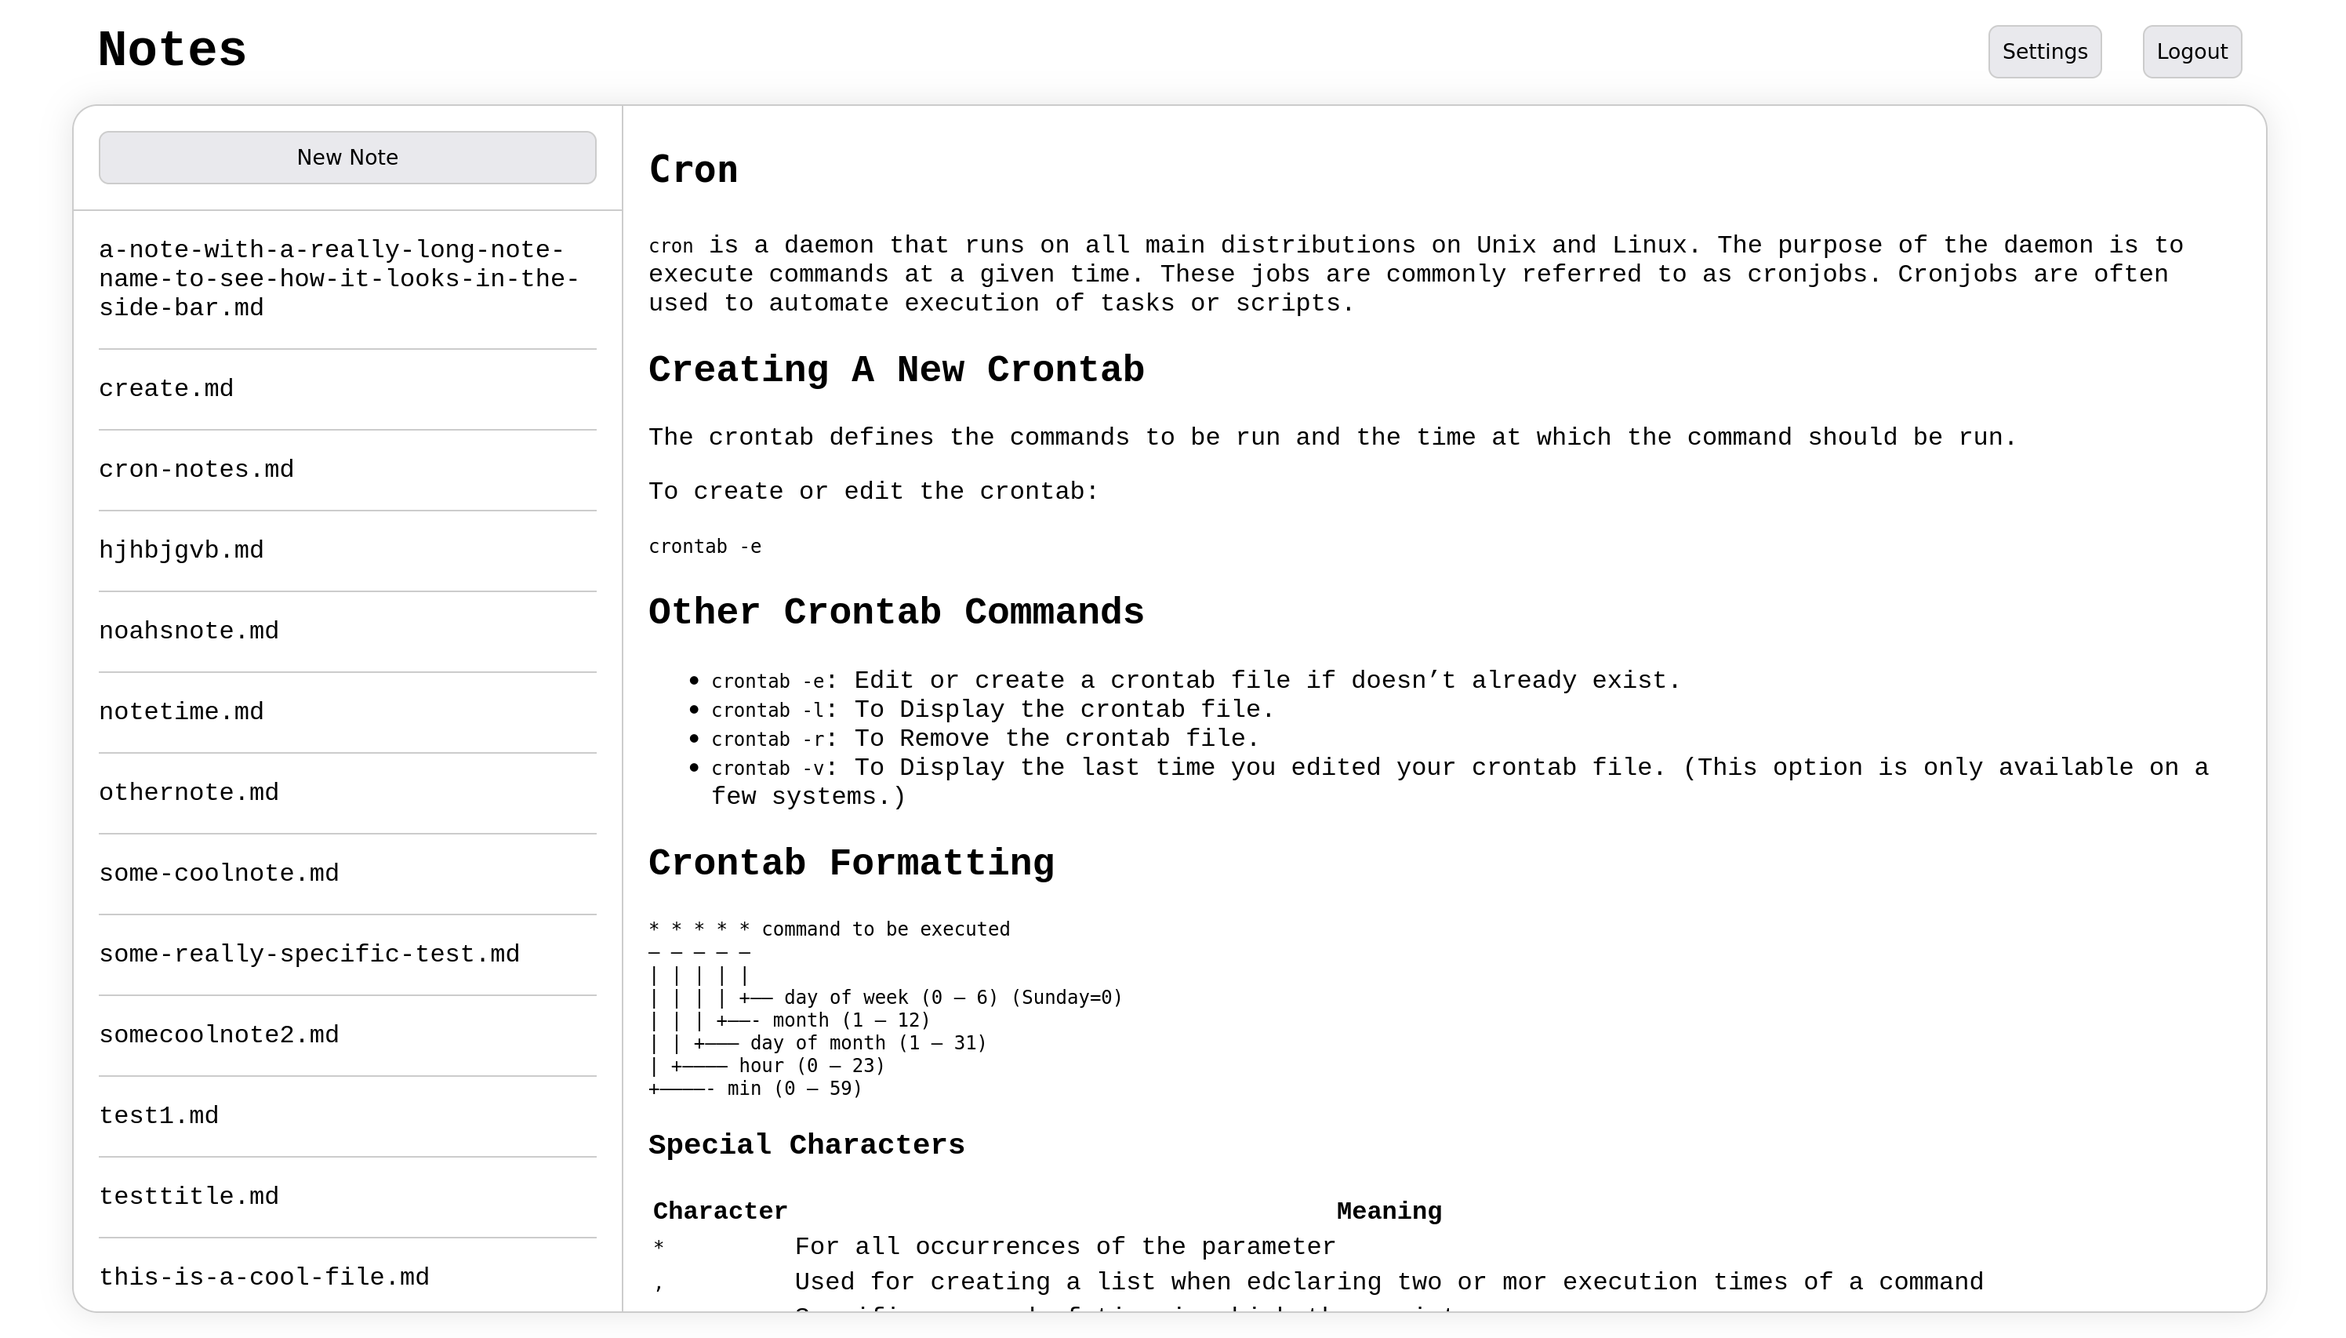
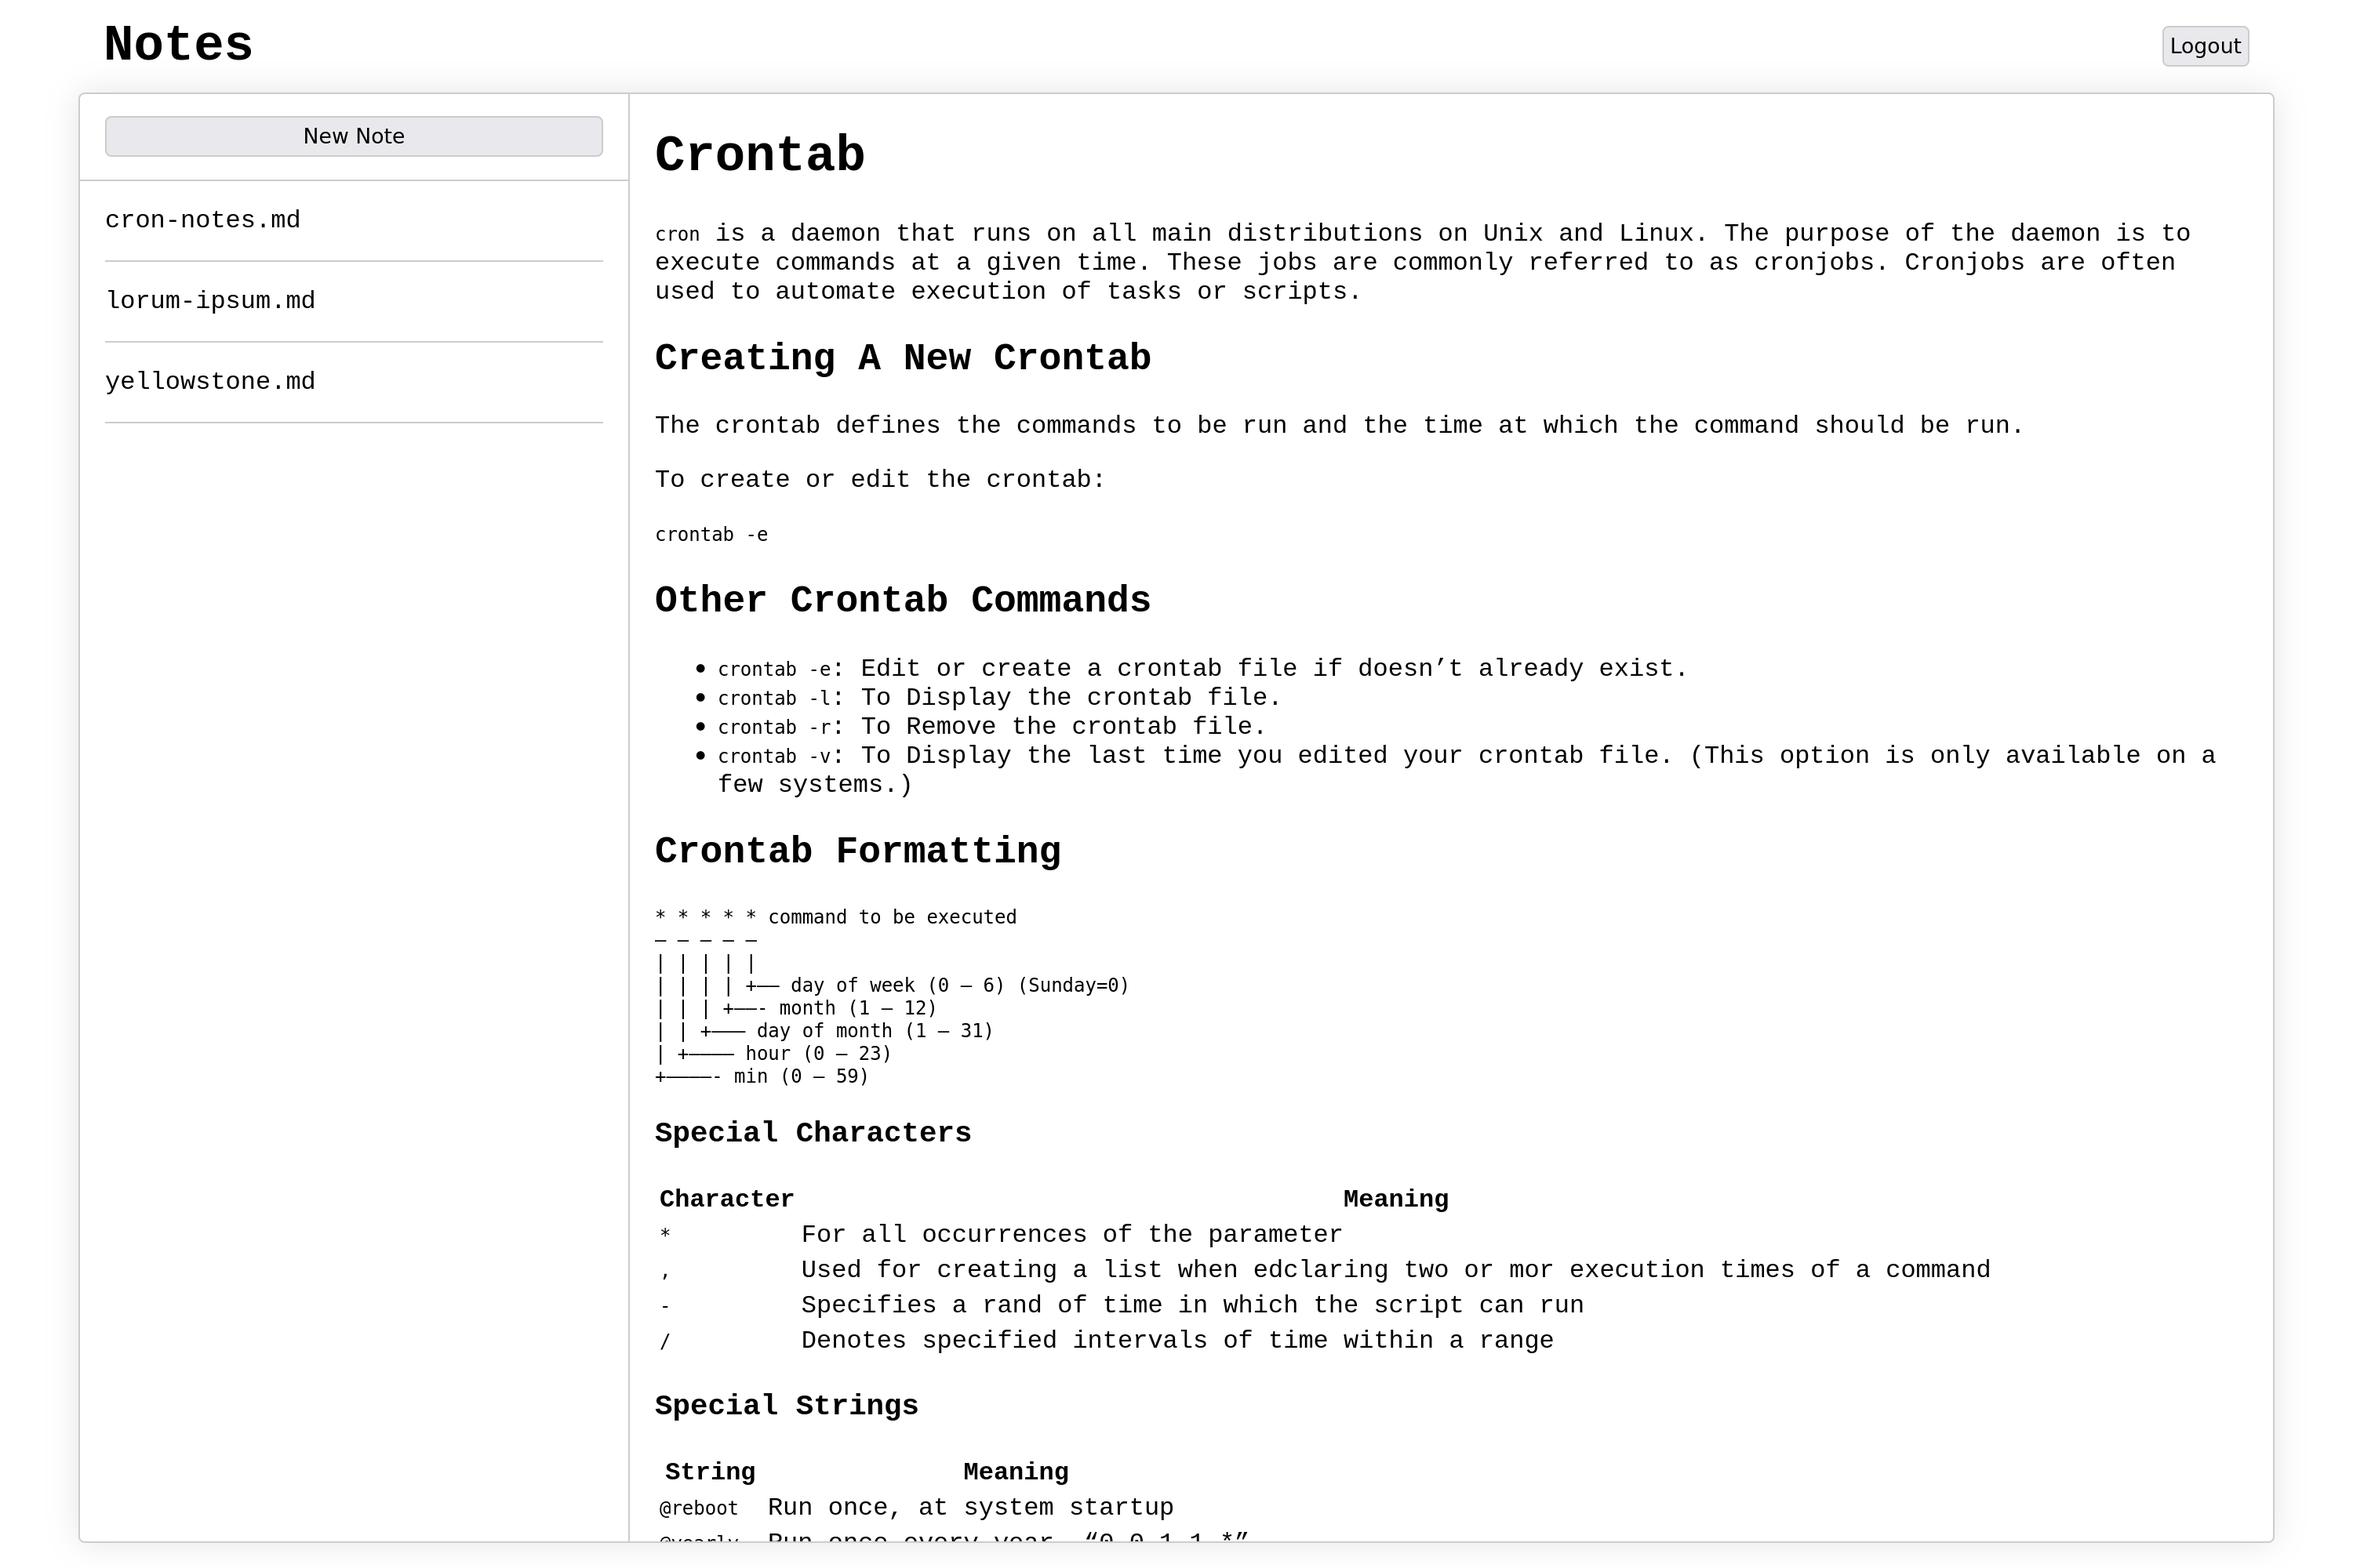
work

diff --git a/public/css/notes.css b/public/css/notes.css
@@ -1,7 +1,7 @@
 main {
-  border-radius: 1rem;
+  border-radius: 0.25rem;
   box-shadow: 0 0 20px rgba(0, 0, 0, 0.1);
-  height: 92%;
+  height: 94%;
 }
 
 .new-note-wrapper {
@@ -13,12 +13,13 @@ main {
   box-sizing: border-box;
   flex-shrink: 0;
   flex-direction: column;
-  padding: 1rem;
+  height: 6%;
 }
 
 .new-note-input-wrapper {
-  padding: 1rem;
   width: 100%;
+  padding-top: 1rem;
+  padding-bottom: 1rem;
   border-bottom: 1px solid #ccc;
   justify-content: center;
   align-items: center;
@@ -30,15 +31,15 @@ main {
 }
 
 .new-note-input {
-  width: 100%;
+  width: calc(100% - 2rem);
   box-sizing: border-box;
   padding: 0.25rem;
 }
 
 .new-note-create-button {
   text-align: center;
-  width: 100%;
   padding: 0.25rem;
+  width: calc(100% - 2rem);
 }
 
 .note-preview-title {
@@ -52,17 +53,35 @@ main {
 
 .rendered {
   overflow: scroll;
+  -ms-overflow-style: none; /* Hide scrollbar on IE and Edge */
+  scrollbar-width: none; /* Hide scrollbar on Firefox */
+}
+
+.rendered::-webkit-scrollbar {
+  display: none; /* Hide scrollbar on Chrome */
+}
+
+.rendered img {
+  width: calc(100% - 2rem);
+  margin: 1rem;
 }
 
 .new-note {
   text-align: center;
   padding: 0.25rem;
-  width: 100%;
+  width: calc(100% - 2rem);
 }
 
 .note-list {
   width: 100%;
+  height: 94%;
   overflow: scroll;
+  -ms-overflow-style: none; /* Hide scrollbar on IE and Edge */
+  scrollbar-width: none; /* Hide scrollbar on Firefox */
+}
+
+.note-list::-webkit-scrollbar {
+  display: none; /* Hide scrollbar on Chrome */
 }
 
 .note-entry-wrapper {

diff --git a/public/css/fullpagenoteview.css b/public/css/fullpagenoteview.css
@@ -31,3 +31,13 @@ main {
   width: calc(100% - 2rem);
   margin: 1rem;
 }
+
+.note-preview-wrapper {
+  overflow: scroll;
+  -ms-overflow-style: none; /* Hide scrollbar on IE and Edge */
+  scrollbar-width: none; /* Hide scrollbar on Firefox */
+}
+
+.note-preview-wrapper::-webkit-scrollbar {
+  display: none; /* Hide scrollbar on Chrome */
+}

diff --git a/public/css/header.css b/public/css/header.css
@@ -1,5 +1,5 @@
 header {
-  height: 8%;
+  height: 6%;
   margin-left: auto;
   margin-right: auto;
   max-width: 1400px;
@@ -13,8 +13,10 @@ header h1 {
   margin-left: 1rem;
 }
 
-header button {
+header #logout-button {
   margin-right: 1rem;
+  text-align: center;
+  padding: 0.25rem;
 }
 
 .header-sub {

diff --git a/templates/partials/header.html b/templates/partials/header.html
@@ -2,7 +2,7 @@
   <div class="header-sub">
     <h1>Notes</h1>
   </div>
-  <div class="header-sub">
-    <button hx-post="/logout" hx-trigger="click">Logout</button>
-  </div>
+  <button id="logout-button" hx-post="/logout" hx-trigger="click">
+    Logout
+  </button>
 </header>

diff --git a/public/css/common.css b/public/css/common.css
@@ -10,7 +10,7 @@ body {
 }
 
 button {
-  border-radius: 0.4rem;
+  border-radius: 0.25rem;
   border: 1px solid #ccc;
   appearance: none;
   outline: none;

diff --git a/handlers/handlers_user.go b/handlers/handlers_user.go
@@ -6,6 +6,7 @@ import (
 	"net/http"
 	"noahhefner/notes/database"
 	"noahhefner/notes/models"
+	"os"
 )
 
 func AddUser(c *gin.Context) {
@@ -38,6 +39,16 @@ func AddUser(c *gin.Context) {
 		c.JSON(http.StatusInternalServerError, gin.H{"error": err.Error()})
 		return
 	}
+
+	// Check if user directory already exists
+    _, err = os.Stat(username)
+    if os.IsNotExist(err) {
+        // Create a directory for the new user
+		err = os.Mkdir(username, 0755)
+		if err != nil {
+			panic(err)
+		}
+    }
 
 	// Redirect to the /notes page
 	c.Redirect(http.StatusFound, "/login")

diff --git a/user/lorum-ipsum.md b/user/lorum-ipsum.md
@@ -1,0 +1,11 @@
+# Lorum Ipsum
+
+Lorem ipsum dolor sit amet, consectetur adipiscing elit, sed do eiusmod tempor incididunt ut labore et dolore magna aliqua. Porttitor rhoncus dolor purus non enim. Proin nibh nisl condimentum id. Et pharetra pharetra massa massa ultricies mi quis hendrerit dolor. Egestas diam in arcu cursus euismod quis viverra nibh. Rhoncus aenean vel elit scelerisque mauris pellentesque pulvinar pellentesque habitant. Pharetra et ultrices neque ornare aenean euismod elementum. Feugiat in fermentum posuere urna nec. Pretium lectus quam id leo in vitae turpis massa. Tellus mauris a diam maecenas sed enim. At auctor urna nunc id cursus metus aliquam. Pellentesque adipiscing commodo elit at imperdiet dui. Aliquam id diam maecenas ultricies mi. Tempus iaculis urna id volutpat. Est velit egestas dui id ornare. Sed faucibus turpis in eu mi bibendum neque egestas congue. Felis donec et odio pellentesque diam volutpat.
+
+Mauris in aliquam sem fringilla ut morbi tincidunt. Cras adipiscing enim eu turpis egestas pretium aenean. Vel pretium lectus quam id leo in. Urna id volutpat lacus laoreet non curabitur. Mauris rhoncus aenean vel elit scelerisque mauris pellentesque pulvinar. Sit amet est placerat in egestas erat imperdiet. Semper feugiat nibh sed pulvinar proin gravida hendrerit. Purus semper eget duis at tellus at. Arcu cursus vitae congue mauris rhoncus aenean vel elit scelerisque. Pellentesque eu tincidunt tortor aliquam nulla facilisi cras. Sem nulla pharetra diam sit amet. Urna nec tincidunt praesent semper feugiat nibh. In pellentesque massa placerat duis ultricies lacus sed.
+
+Proin sed libero enim sed. Tristique sollicitudin nibh sit amet commodo nulla facilisi nullam vehicula. Velit laoreet id donec ultrices tincidunt. Enim ut sem viverra aliquet eget. Pulvinar mattis nunc sed blandit. Egestas maecenas pharetra convallis posuere. Nulla posuere sollicitudin aliquam ultrices sagittis orci a. Magna ac placerat vestibulum lectus. Congue quisque egestas diam in arcu. Velit aliquet sagittis id consectetur purus ut faucibus. Sit amet consectetur adipiscing elit ut aliquam purus. Sociis natoque penatibus et magnis dis parturient montes nascetur ridiculus. Justo donec enim diam vulputate. Pulvinar neque laoreet suspendisse interdum consectetur. In pellentesque massa placerat duis. Dui ut ornare lectus sit amet est placerat.
+
+Ante metus dictum at tempor. Ultricies mi eget mauris pharetra et. Amet nulla facilisi morbi tempus iaculis urna. Purus non enim praesent elementum facilisis leo vel fringilla est. Ultrices sagittis orci a scelerisque purus semper eget duis at. Dignissim diam quis enim lobortis. Non odio euismod lacinia at. Commodo ullamcorper a lacus vestibulum sed. Vestibulum rhoncus est pellentesque elit ullamcorper. In egestas erat imperdiet sed euismod nisi porta. Morbi tincidunt augue interdum velit. Ut enim blandit volutpat maecenas volutpat blandit aliquam. Sagittis eu volutpat odio facilisis mauris sit.
+
+Eget arcu dictum varius duis at consectetur. At lectus urna duis convallis convallis tellus id interdum. Mauris a diam maecenas sed enim ut. Eu sem integer vitae justo. Nulla facilisi etiam dignissim diam quis enim lobortis scelerisque fermentum. Interdum varius sit amet mattis. Suscipit tellus mauris a diam. Urna cursus eget nunc scelerisque viverra. Est velit egestas dui id ornare arcu odio. In iaculis nunc sed augue lacus. Quis blandit turpis cursus in hac habitasse platea dictumst quisque. Eget est lorem ipsum dolor sit amet consectetur adipiscing. Venenatis a condimentum vitae sapien pellentesque habitant. Fermentum dui faucibus in ornare. Tempor id eu nisl nunc mi ipsum faucibus vitae aliquet.

diff --git a/README.md b/README.md
@@ -1,12 +1,14 @@
 # Notes
 
-!!! Work in progress, many features currently broken. !!!
-
 Self-hostable, no-database web app for markdown note-taking, written in Golang and utilizing HTMX. Store notes in plain markdown files for easy import/export. Multiple user support.
+
+![wip](/screenshots/wip.jpg)
 
 ![notes](/screenshots/notes-view.png)
 
-![editor](/screenshots/editor.png)
+![editor](/screenshots/editor-view.png)
+
+![fullscreen](/screenshots/fullscreen-view.png)
 
 ## Development
 
@@ -15,6 +17,11 @@ Install [air](https://github.com/cosmtrek/air) for live reload. Run the air serv
 ```
 air
 ```
+
+Test user and password:
+
+- Username: `user`
+- Password: `pass`
 
 Makefile commands:
 

diff --git a/user/cron-notes.md b/user/cron-notes.md
@@ -1,4 +1,4 @@
-# `Cron`
+# Crontab
 
 `cron` is a daemon that runs on all main distributions on Unix and Linux. The purpose of the daemon is to execute commands at a given time. These jobs are commonly referred to as cronjobs. Cronjobs are often used to automate execution of tasks or scripts.
 
